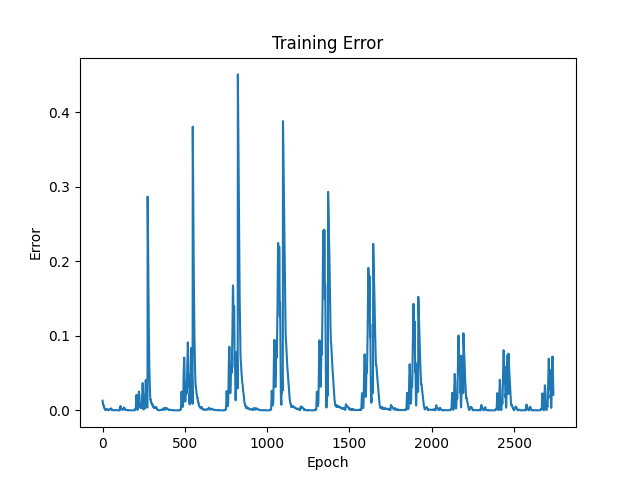
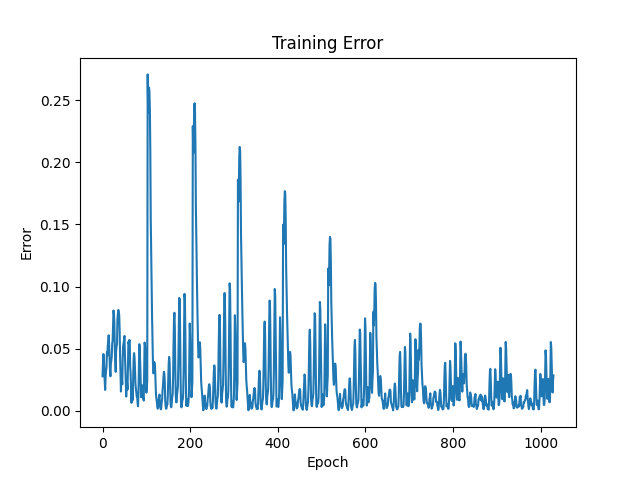
add some content

diff --git a/snu777/lstm_demo.py b/snu777/lstm_demo.py
@@ -47,13 +47,13 @@ class LSTM(nn.Module):
 
 
 def main():
-    true_data = pd.read_csv(r'D:\workspace\data\time\ChinaBank.csv')  # 填你自己的数据地址
+    true_data = pd.read_csv(r'D:\workspace\data\time\AirPassengers.csv')  # 填你自己的数据地址
 
-    target = 'Close'
+    target = '#Passengers'
 
     # 这里加一些数据的预处理, 最后需要的格式是pd.series
 
-    true_data = np.array(true_data['Close'])
+    true_data = np.array(true_data[target])
 
     # 定义窗口大小
     test_data_size = 32
@@ -82,7 +82,7 @@ def main():
     loss_function = nn.MSELoss()
     optimizer = torch.optim.Adam(lstm_model.parameters(), lr=0.001)
     epochs = 10
-    Train = False  # 训练还是预测
+    Train = True  # 训练还是预测
 
     if Train:
         losss = []
